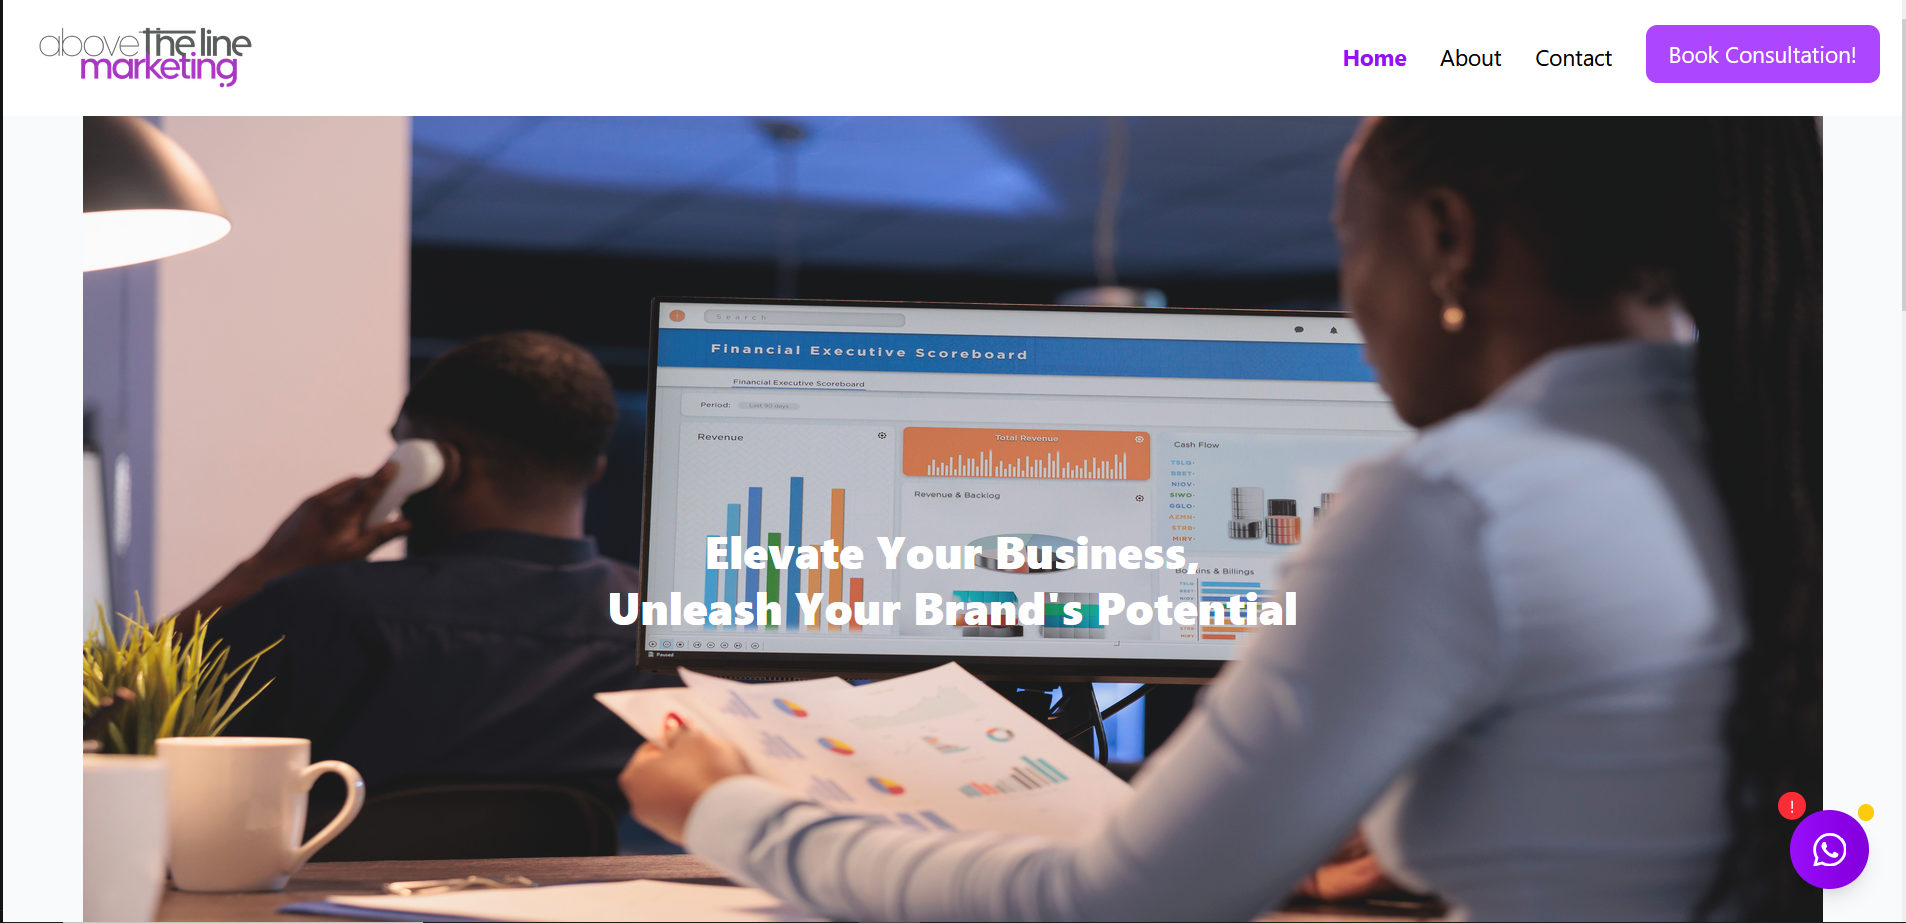
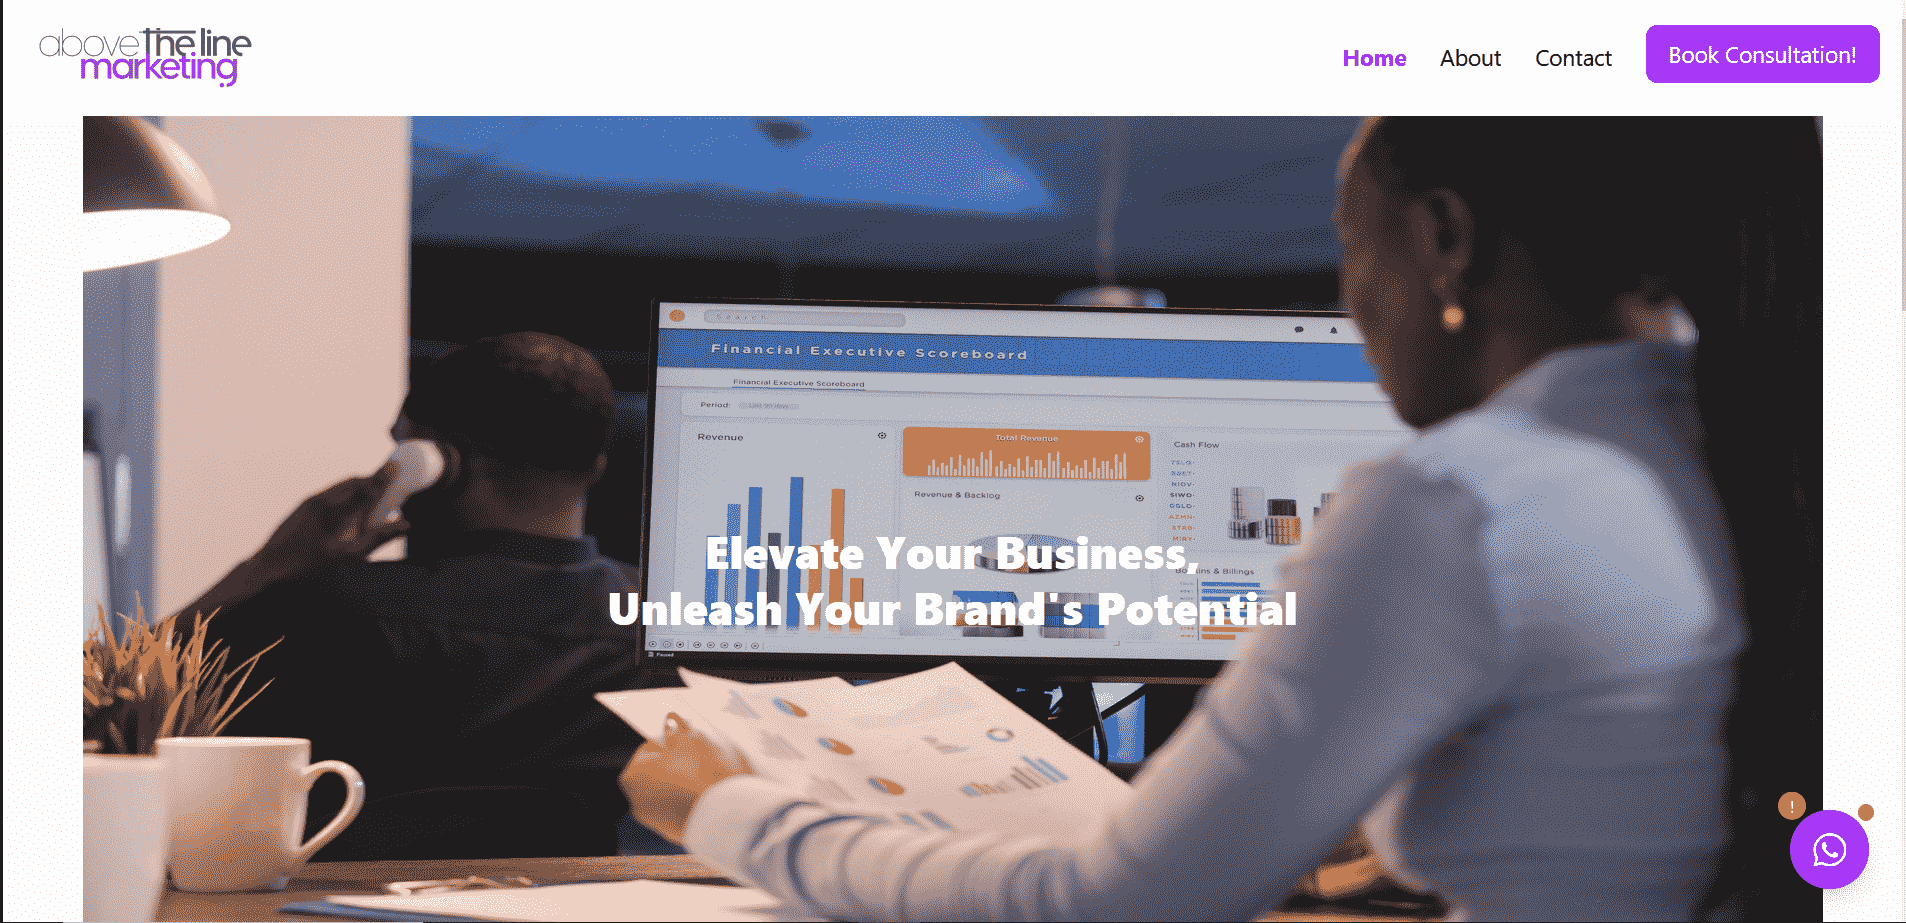
update projects in project.md

diff --git a/projects.md b/projects.md
@@ -10,6 +10,12 @@ These are some of the projects I have worked on.
 
 ---
 
+{% if project.url %}
+<a href="{{ project.url }}" target="_blank"><strong>{{ project.title }}</strong></a>
+{% else %}
+<strong>{{ project.title }}</strong>
+{% endif %}
+
 <img align="left" class="light" src="{{ site.baseurl }}/assets/images/{{ project.image_light }}" height="80" style="margin-right: 10px">
 {% if project.image_dark and site.plainwhite.dark_mode %}
 <img align="left" class="dark" src="{{ site.baseurl }}/assets/images/{{ project.image_dark }}" height="80" style="margin-right: 10px">
